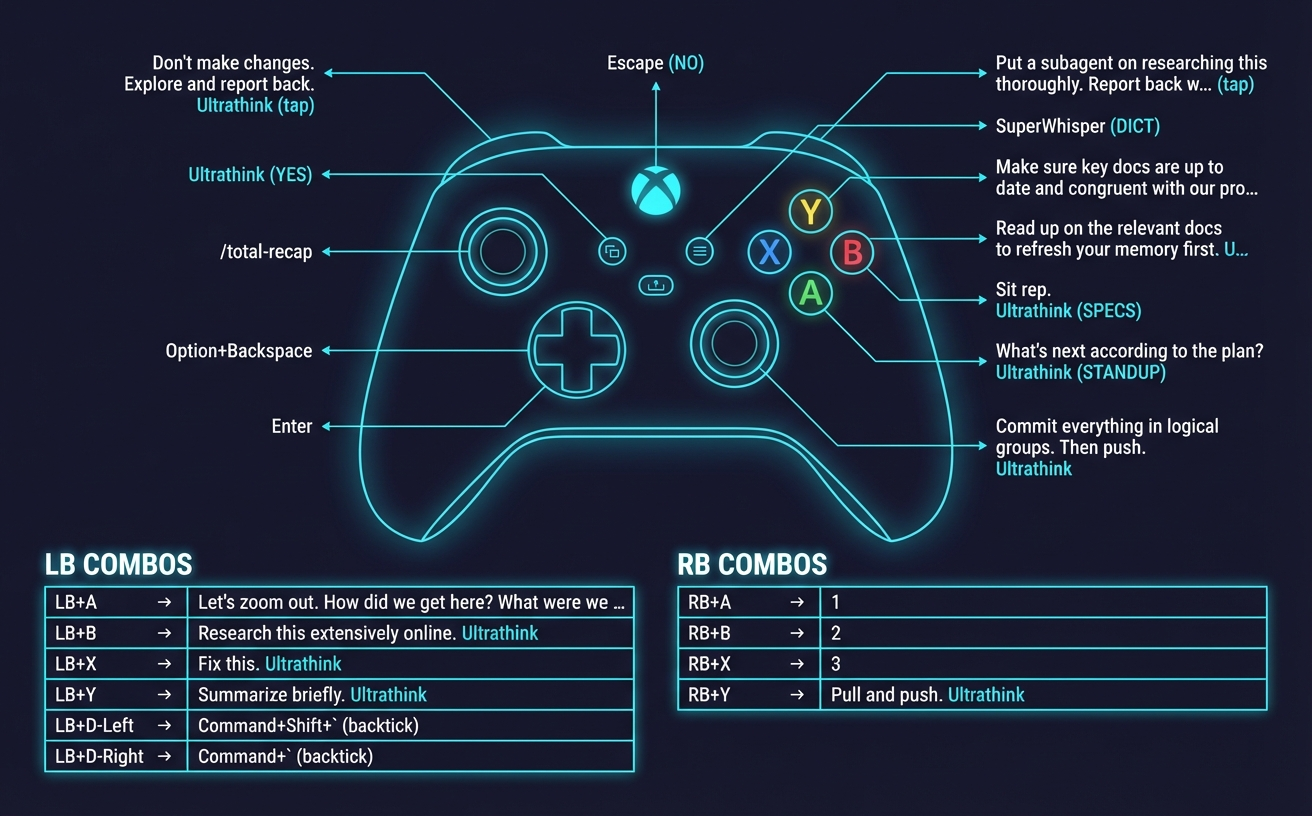
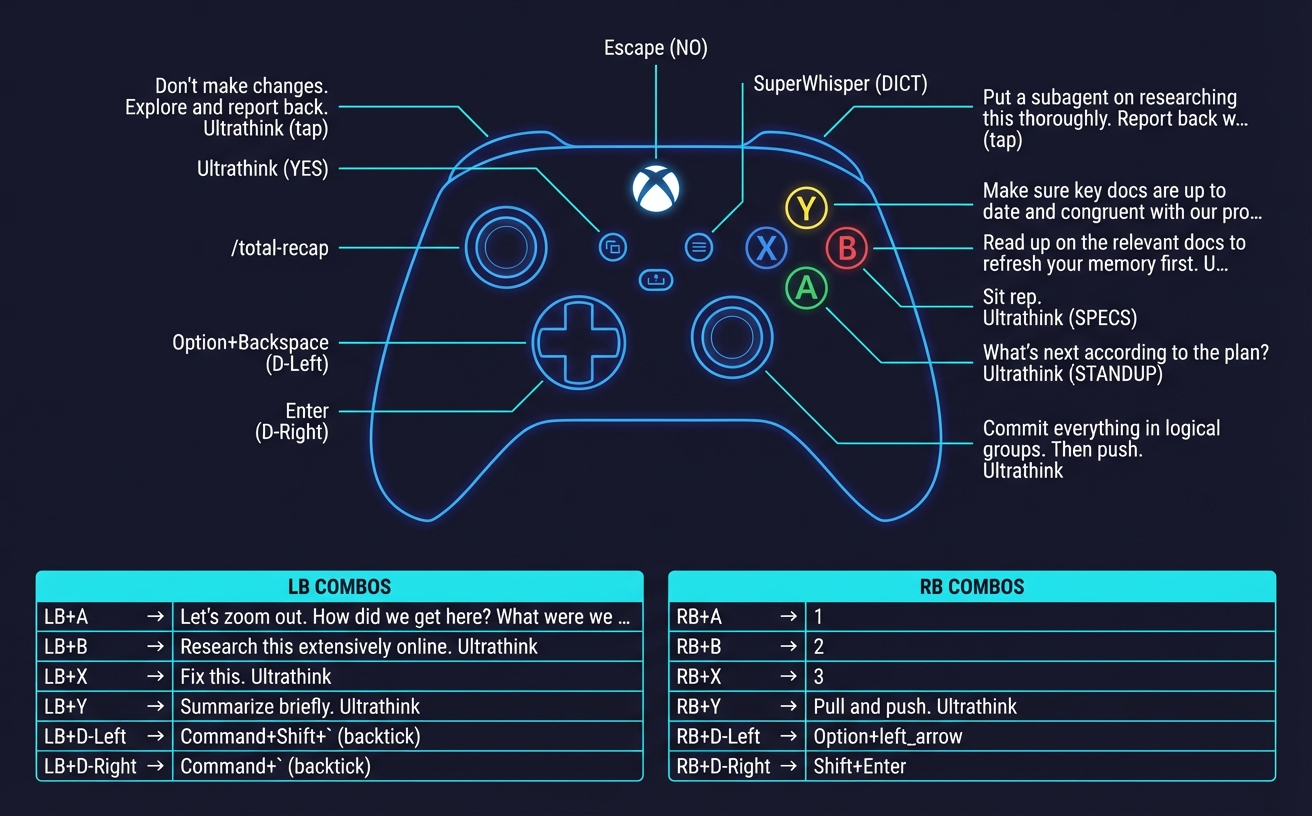
Add RB+D-pad combos: word navigation and new line
- RB+D-Left → Opt+Left (word navigation left)
- RB+D-Right → Shift+Enter (new line without submit)
- Update standalone D-pad conditions to check rb_held=0
- Now 25 unique actions (13 standalone + 12 combos)

🤖 Generated with [Claude Code](https://claude.com/claude-code)

Changed region(s): [[0.0, 0.0613, 1.0, 0.9804], [0.4375, 0.0306, 0.5625, 0.0919], [0.2812, 0.1225, 0.3438, 0.1532]]

diff --git a/docs/xbox_button_reference.md b/docs/xbox_button_reference.md
@@ -45,7 +45,7 @@
 Center buttons (left to right): View (⧉) → Share (unmappable!) → Menu (☰)
 
 LB+ Combos: A=ZoomOut B=Research X=Fix Y=Summarize D←=PrevWin D→=NextWin
-RB+ Combos: A=Key1 B=Key2 X=Key3 Y=PullPush
+RB+ Combos: A=Key1 B=Key2 X=Key3 Y=PullPush D←=WordLeft D→=Shift+Enter
 ```
 
 ## Button Categories
@@ -144,7 +144,7 @@ Share button remains unmapped. D-pad Left provides Delete Word as a quick recove
 ### Active Configuration Files
 | File | Purpose | Status |
 |------|---------|--------|
-| `mods/xbox_zed_claude.json` | All controller mappings (24 manipulators → 23 unique buttons) | **ACTIVE** |
+| `mods/xbox_zed_claude.json` | All controller mappings (26 manipulators → 25 unique buttons) | **ACTIVE** |
 | `mods/keyboard_text_shortcuts.json` | Caps+key text shortcuts | **ACTIVE** |
 
 ### Deprecated/Disabled Files
@@ -314,14 +314,16 @@ Share button remains unmapped. D-pad Left provides Delete Word as a quick recove
 | RB+B | CC prompt 2 | Key "2" (allow + remember) |
 | RB+X | CC prompt 3 | Key "3" (custom response) |
 | RB+Y | Git sync | "Pull and push. Ultrathink " |
+| RB+D-Left | Word left | Opt+Left (cursor word navigation) |
+| RB+D-Right | New line | Shift+Enter (no submit) |
 
 ### Action Count
 
 | Before | After |
 |--------|-------|
-| 12 standalone actions | 13 standalone + 10 combos = **23 unique actions** |
+| 12 standalone actions | 13 standalone + 12 combos = **25 unique actions** |
 
-*Note: JSON has 24 manipulators but DICT button has 2 (start/end toggle), so 23 unique button mappings.*
+*Note: JSON has 26 manipulators but DICT button has 2 (start/end toggle), so 25 unique button mappings.*
 
 ### Testing Notes
 

diff --git a/README.md b/README.md
@@ -42,7 +42,7 @@ This repository contains Karabiner-Elements configurations for supercharging dev
 | File | Description |
 |------|-------------|
 | `keyboard_text_shortcuts.json` | Caps+key shortcuts for typing common text (31 shortcuts) |
-| `xbox_zed_claude.json` | Xbox controller mappings - all in one rule (23 unique actions) |
+| `xbox_zed_claude.json` | Xbox controller mappings - all in one rule (25 unique actions) |
 | `app_specific_actions.json` | *(deprecated)* Old Cursor-specific Xbox mappings |
 | `mouse_browser_navigation.json` | *(broken)* Mouse buttons for browser back/forward |
 | `mouse_safari_navigation.json` | *(broken)* Safari-specific mouse navigation |

diff --git a/CLAUDE.md b/CLAUDE.md
@@ -169,7 +169,7 @@ See `docs/xbox_button_reference.md` for full documentation including visual layo
 | *(none)* | R-Stick | button15 | "Commit everything in logical groups. Then push." |
 
 ### Xbox Controller File
-- `mods/xbox_zed_claude.json` - All controller mappings in one rule (23 unique actions: 13 standalone + 10 combos)
+- `mods/xbox_zed_claude.json` - All controller mappings in one rule (25 unique actions: 13 standalone + 12 combos)
 
 **Note**: D-pad uses `generic_desktop: dpad_left` syntax, not `pointing_button`. See `docs/xbox_button_reference.md` for details.
 
